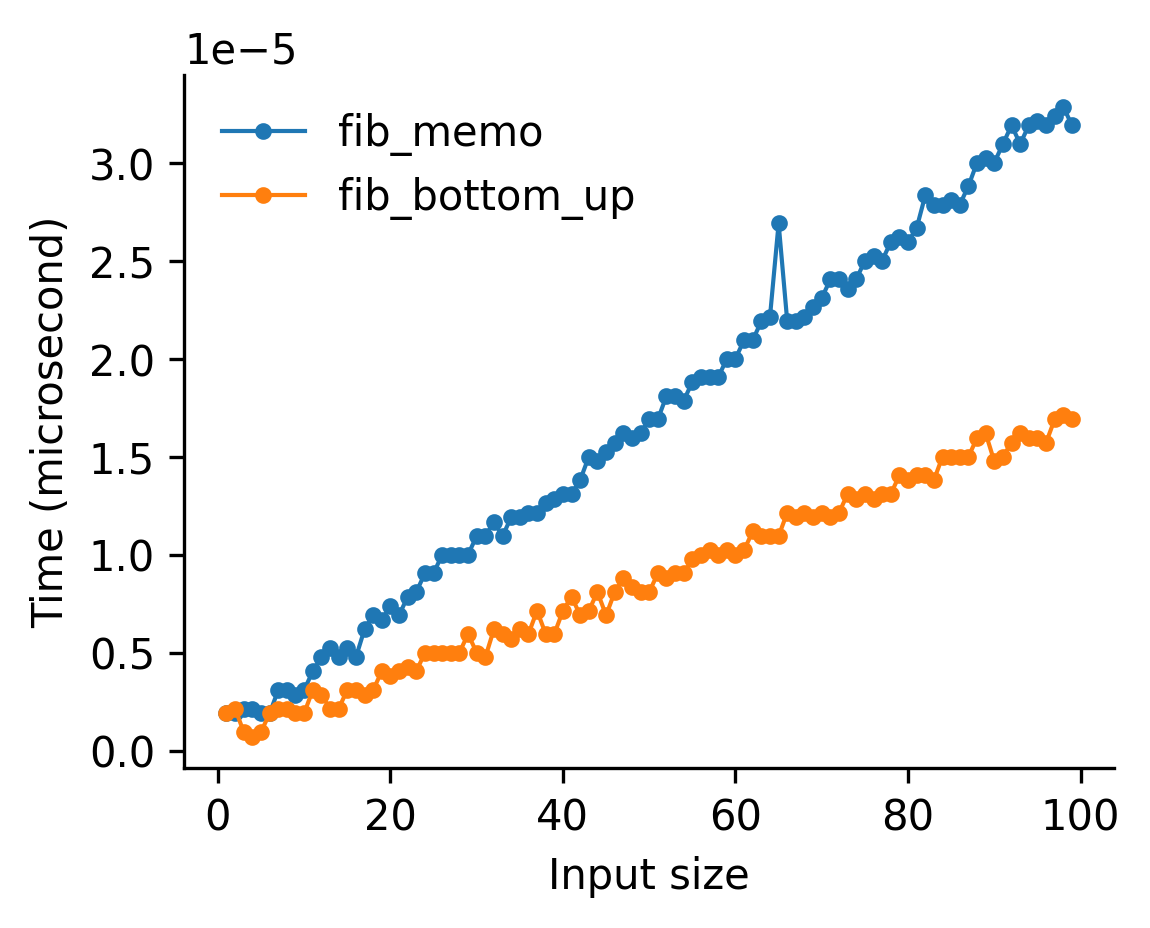
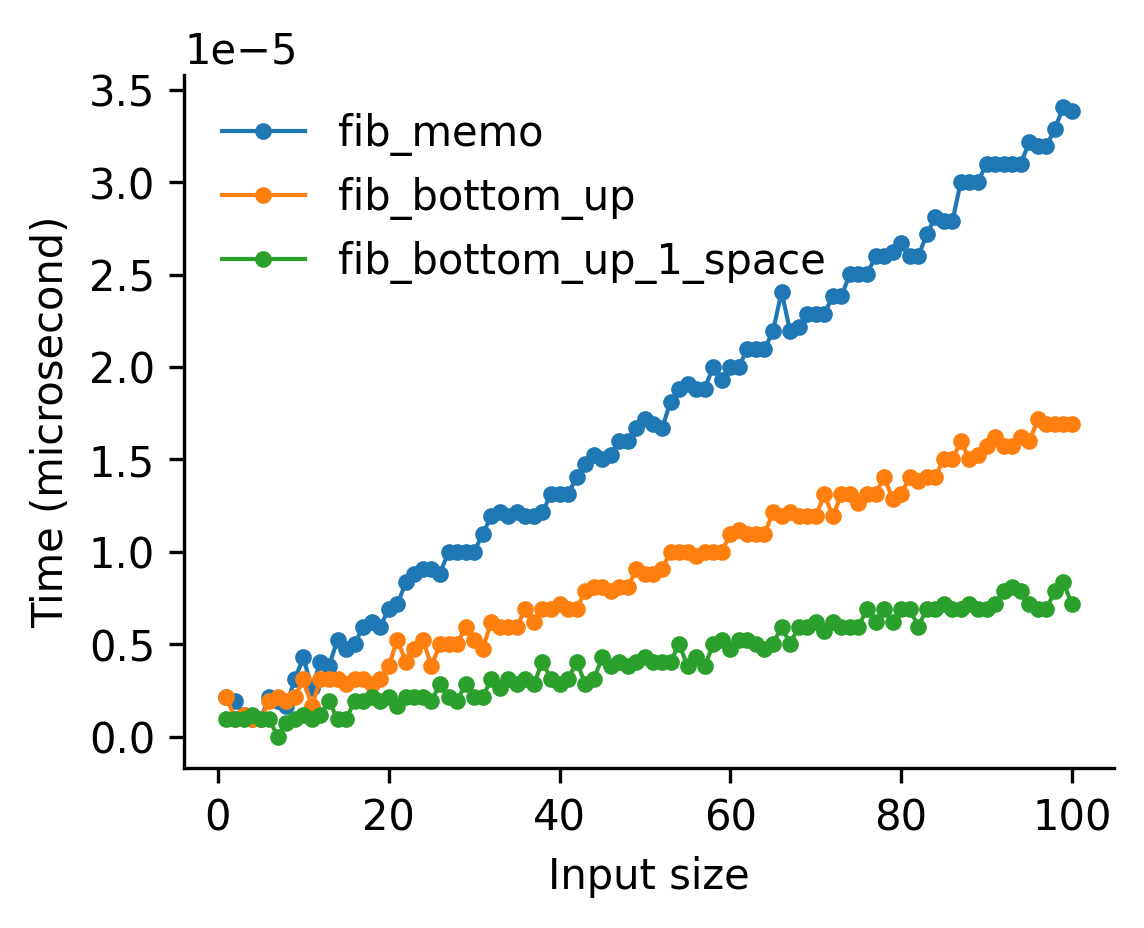
Add constant space

diff --git a/dynamic_programming/fib.py b/dynamic_programming/fib.py
@@ -29,19 +29,31 @@ def fib_bottom_up(n):
             f = MEMO[i-1] + MEMO[i-2]
         MEMO[i] = f 
     return MEMO[n]
-    
 
+def fib_bottom_up_1_space(n):
+    curr_2 = 0
+    curr_1 = 1
+    f = 0
+    for i in range(n+1):
+        if i == 0: f = 0
+        elif i == 1: f = 1
+        else:
+            f = curr_1 + curr_2
+            curr_2 = curr_1
+            curr_1 = f
+    return f
+    
 n = int(sys.argv[1])
 
 #fib_times = []
-#for i in range(1,n):
+#for i in range(2,n):
 #    start = time.time()
 #    f_i = fib(i)
 #    end = time.time()
 #    fib_times.append((end-start))
 
 fib_memo_times = []
-for i in range(1,n):
+for i in range(1, n+1):
     MEMO = {}
     start = time.time()
     f_i = fib_memo(i, MEMO)
@@ -49,12 +61,21 @@ for i in range(1,n):
     fib_memo_times.append((end-start))
 
 fib_bottom_up_times = []
-for i in range(1,n):
+for i in range(1, n+1):
     MEMO = {}
     start = time.time()
     f_i = fib_bottom_up(i)
     end = time.time()
     fib_bottom_up_times.append((end-start))
+
+fib_bottom_up_1_space_times = []
+for i in range(1, n+1):
+    MEMO = {}
+    start = time.time()
+    f_i = fib_bottom_up_1_space(i)
+    end = time.time()
+    fib_bottom_up_1_space_times.append((end-start))
+
 
 fig = matplotlib.pyplot.figure(figsize=(4,3),dpi=300)
 ax = fig.add_subplot(1,1,1)
@@ -64,8 +85,21 @@ ax.set_xlabel('Input size')
 ax.set_ylabel('Time (microsecond)')
 
 #ax.plot(range(1,n), fib_times, '.-', lw=1, label='fib')
-ax.plot(range(1,n), fib_memo_times, '.-', lw=1, label='fib_memo')
-ax.plot(range(1,n), fib_bottom_up_times, '.-', lw=1, label='fib_bottom_up')
+ax.plot(range(1,n+1),
+        fib_memo_times,
+        '.-',
+        lw=1,
+        label='fib_memo')
+ax.plot(range(1,n+1),
+        fib_bottom_up_times,
+        '.-',
+        lw=1,
+       label='fib_bottom_up')
+ax.plot(range(1,n+1),
+        fib_bottom_up_1_space_times,
+        '.-',
+        lw=1,
+        label='fib_bottom_up_1_space')
 ax.legend(frameon=False)
 
 matplotlib.pyplot.savefig('runtime.png', bbox_inches='tight')
